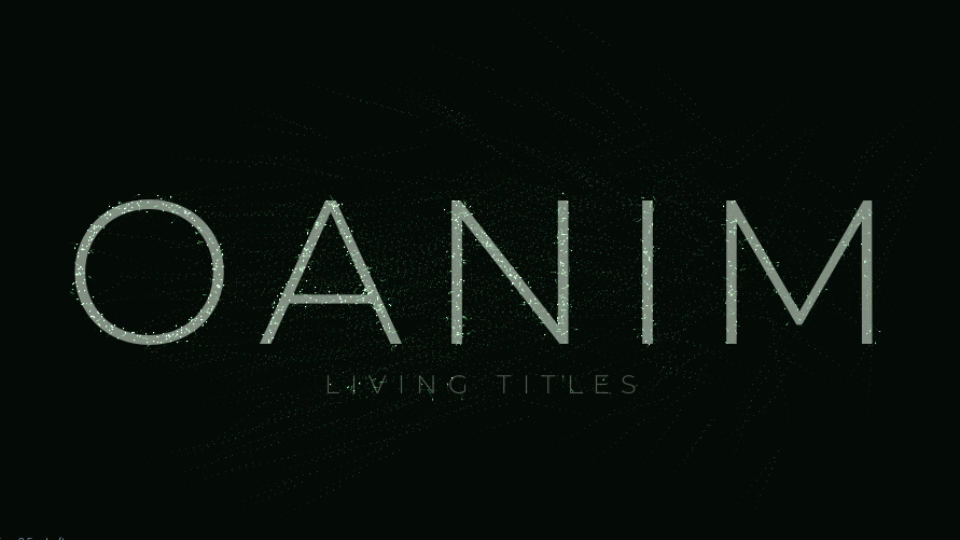
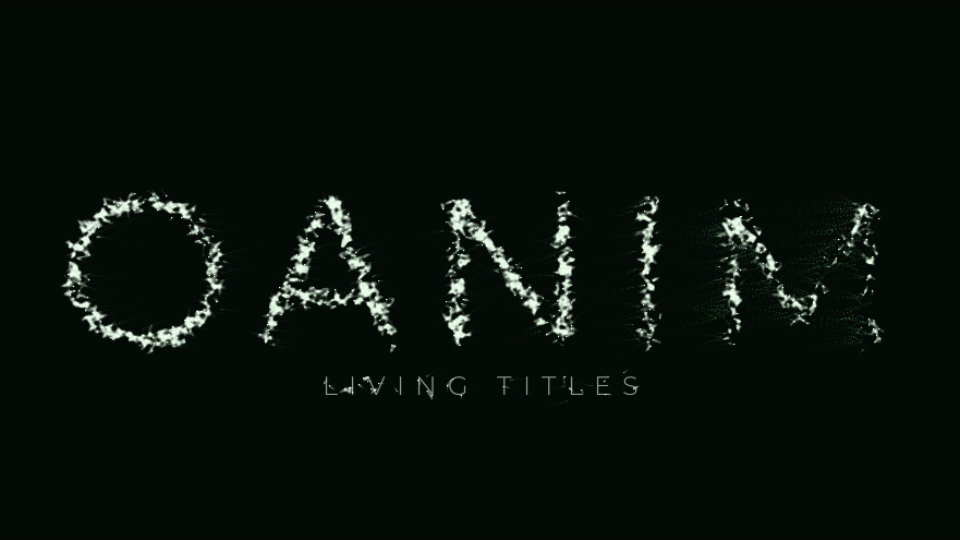
Ink reveal default: tuned defaults, CLI + rebuild fixes, verified showcase/hero

diff --git a/engine/api.py b/engine/api.py
@@ -4,7 +4,7 @@ import subprocess
 import numpy as np
 from PIL import Image, ImageDraw, ImageFont
 
-from engine._core import splat, step_form, HAS_RUST
+from engine._core import splat, splat_vals, step_form, HAS_RUST
 
 W, H, FPS = 960, 540, 30
 
@@ -49,6 +49,19 @@ def _load_font(size, weight="Light"):
         except Exception:
             continue
     return ImageFont.load_default()
+
+
+def _blur3(img):
+    """One separable 3-tap blur pass ([1,2,1]/4 along each axis)."""
+    t = img.copy()
+    t[:, 1:-1] = (img[:, :-2] + 2 * img[:, 1:-1] + img[:, 2:]) * 0.25
+    t[1:-1, :] = (t[:-2, :] + 2 * t[1:-1, :] + t[2:, :]) * 0.25
+    return t
+
+
+def _ss01(a, b, x):
+    t = np.clip((x - a) / max(1e-6, b - a), 0.0, 1.0)
+    return t * t * (3.0 - 2.0 * t)
 
 
 def _draw_tracked(d, center_x, y, text, font, fill, tracking=10):
@@ -222,6 +235,8 @@ class Text(Targets):
         self.mask = None      # L image
         self.mask_np = None
         self.targets = None   # filled on demand per particle count
+        self.sub_mask = None  # subtitle-only L image (crisp support line in ink mode)
+        self.sub_mask_np = None
 
     def render_mask(self, w=None, h=None):
         w = w or W
@@ -249,6 +264,14 @@ class Text(Targets):
                       sub, 150, tracking=10)
         self.mask = img
         self.mask_np = np.asarray(img)
+        # subtitle-only mask: thin support lines can't bake legibly from
+        # sparse particle ink, so ink mode composites this crisply instead.
+        sub_img = Image.new("L", (w, h), 0)
+        ds = ImageDraw.Draw(sub_img)
+        _draw_tracked(ds, w / 2, h / 2 + 90, self.subtitle,
+                      sub, 200, tracking=10)
+        self.sub_mask = sub_img
+        self.sub_mask_np = np.asarray(sub_img)
         return img
 
     def sample_targets(self, n, seed=7):
@@ -334,6 +357,7 @@ class FlowParticles:
         def fn(state, t, dt, _t0=[None]):
             if _t0[0] is None:
                 _t0[0] = t  # phase start time
+                state["ink_reset"] = True  # new target set: clear baked ink
             ts = t - _t0[0]
             e = float(_drv.energy(t)) if _drv is not None else 0.0
             # Fused kernel (Rust, numpy fallback): flow + spring + integrate.
@@ -373,18 +397,23 @@ class FlowParticles:
         self._nx = np.ascontiguousarray(nx)
         self._sweep = sweep
         self._form_dur = duration
+        # Capture per-call copies (same retarget hazard as form() had):
+        # a later form()/flock() must not redirect this phase mid-render.
+        _targ, _nx, _sw, _dur, _drv = self.targets, self._nx, sweep, duration, drive
+        _radius, _sep, _ali = float(radius), float(sep), float(ali)
 
         def fn(state, t, dt, _t0=[None]):
             if _t0[0] is None:
                 _t0[0] = t
+                state["ink_reset"] = True  # new target set: clear baked ink
             ts = t - _t0[0]
-            e = float(drive.energy(t)) if drive is not None else 0.0
-            act = smoothstep(self._nx * sweep + self._rand,
-                             self._nx * sweep + self._rand + 1.0,
+            e = float(_drv.energy(t)) if _drv is not None else 0.0
+            act = smoothstep(_nx * _sw + self._rand,
+                             _nx * _sw + self._rand + 1.0,
                              np.full(self.n, ts, np.float32))
-            flow_w = float(1.0 - smoothstep(0.0, duration * 0.7, ts) * 0.6)
+            flow_w = float(1.0 - smoothstep(0.0, _dur * 0.7, ts) * 0.6)
             # --- grid-hash neighbours (same-cell separation + alignment) ---
-            cell = np.floor(self.pos / radius).astype(np.int32)
+            cell = np.floor(self.pos / _radius).astype(np.int32)
             key = (cell[:, 0] + 64) * 512 + (cell[:, 1] + 64)
             ord_ = np.argsort(key)
             sp_, sv_ = self.pos[ord_], self.vel[ord_]
@@ -398,10 +427,10 @@ class FlowParticles:
             away = sp_ - mp
             d = np.maximum(1.0, np.linalg.norm(away, axis=1, keepdims=True))
             crowd = np.minimum(1.0, (cnt[cid, None] - 1) / 5.0)
-            f = (away / d) * crowd * sep + (mv - sv_) * ali
+            f = (away / d) * crowd * _sep + (mv - sv_) * _ali
             f = f[np.argsort(ord_)]  # back to particle order
             # --- home spring + flow ---
-            to_t = self.targets - self.pos
+            to_t = _targ - self.pos
             v_flow = flow_field(self.pos, t) * flow_w * (1.0 + e)
             k = 10.0
             self.vel += (v_flow * 0.5 + to_t * (k * act[:, None])
@@ -412,7 +441,7 @@ class FlowParticles:
             dist = float(np.linalg.norm(to_t, axis=1).mean())
             closeness = float(np.clip((150.0 - dist) / 100.0, 0.0, 1.0))
             closeness = closeness * closeness * (3 - 2 * closeness)
-            p = ts / max(1e-6, duration)
+            p = ts / max(1e-6, _dur)
             prog = float(p * p * (3 - 2 * p)) if p < 1 else 1.0
             state["text_alpha"] = min(prog, closeness) * 0.9
             state["mean_act"] = 0.4
@@ -490,7 +519,8 @@ class Scene:
 
     def __init__(self, out="demo2.mp4", fps=None, w=None, h=None,
                  mode="draft", encoder="cpu", thumbnail=True,
-                 theme="ink", motion_blur=0.0):
+                  theme="ink", motion_blur=0.0, reveal="ink",
+                  ink_gain=1.0, ink_sharp=0.45, ink_sigma=9.0):
         global W, H, FPS
         if mode in MODES:
             m = MODES[mode]
@@ -510,6 +540,11 @@ class Scene:
         self.thumbnail = thumbnail
         self.theme = THEMES.get(theme, THEMES["ink"])
         self.motion_blur = float(motion_blur)  # 0 off, ~0.5-1 streaky tails
+        self.reveal = reveal  # ink (baked by particles) | dots | solid (mask)
+        self.ink_gain = float(ink_gain)
+        self.ink_sharp = float(ink_sharp)  # smoothstep center for ink->solid
+        self.ink_sigma = float(ink_sigma)  # deposit radius: settled=ink, near=halo
+        self.ink = np.zeros((h, w), np.float32)  # persistent, never fades
         self.phases = []
         self.canvas = np.zeros((h, w), np.float32)
         self.state = {"text_alpha": 0.0, "flow_w": 1.0}
@@ -591,7 +626,42 @@ class Scene:
         img = Image.fromarray(np.clip(rgb, 0, 255).astype(np.uint8), "RGB")
         # soft text UNDER particles: emerges from dust instead of popping over
         a = float(self.state.get("text_alpha", 0.0))
-        if a > 0.01 and self.text_obj is not None and self.text_obj.mask is not None:
+        phase = self.state.get("phase", "")
+        if self.state.pop("ink_reset", False):
+            self.ink.fill(0)  # new form/flock target: don't ghost the old shape
+        if self.reveal == "dots":
+            a = 0.0
+        if self.reveal == "ink" and p is not None and p.targets is not None:
+            if phase == "scatter":
+                self.ink *= 0.90  # letters dissolve with the burst
+            elif phase in ("form", "flock", "hold"):
+                # bake only while shaping: drift flybys must not pre-ghost letters
+                d2 = ((p.pos - p.targets) ** 2).sum(axis=1)
+                w = (np.exp(-d2 / (2 * self.ink_sigma ** 2)).astype(np.float32)
+                     * self.ink_gain)
+                splat_vals(self.ink, xi, yi, w)
+                # saturating cap: threshold stays valid across modes/densities
+                np.clip(self.ink, 0, 1, out=self.ink)
+            if self.ink.max() > 1e-3:
+                bl = _blur3(_blur3(_blur3(self.ink)))
+                m_ink = (_ss01(self.ink_sharp - 0.25, self.ink_sharp + 0.25,
+                               np.clip(bl, 0, 1)) * 255).astype(np.uint8)
+                solid = Image.new("RGB", (self.w, self.h), th["solid"])
+                img = Image.composite(solid, img, Image.fromarray(m_ink, "L"))
+                # re-add particle sparkle on top so letters keep texture
+                img_np = np.asarray(img).astype(np.float32)
+                ink_a = _ss01(0.02, 0.2, np.clip(bl, 0, 1))
+                spark = (glow * (1 - ink_a * 0.55))[..., None] * np.array(th["spark"], np.float32)
+                img_np += spark * 0.55
+                img = Image.fromarray(np.clip(img_np, 0, 255).astype(np.uint8), "RGB")
+            # crisp subtitle under the baked title: support line stays legible
+            # (alpha is closeness-gated in form(), so no pop; dots mode zeroes a)
+            sub_m = getattr(self.text_obj, "sub_mask_np", None)
+            if a > 0.01 and sub_m is not None:
+                sm = (sub_m.astype(np.float32) / 255.0 * a * 255).astype(np.uint8)
+                solid = Image.new("RGB", (self.w, self.h), th["solid"])
+                img = Image.composite(solid, img, Image.fromarray(sm, "L"))
+        elif a > 0.01 and self.text_obj is not None and self.text_obj.mask is not None:
             m = (self.text_obj.mask_np.astype(np.float32) / 255.0 * a * 255).astype(np.uint8)
             solid = Image.new("RGB", (self.w, self.h), th["solid"])
             img = Image.composite(solid, img, Image.fromarray(m, "L"))
@@ -640,6 +710,8 @@ class Scene:
         import imageio.v2 as imageio
         os.makedirs(os.path.dirname(self.out) or ".", exist_ok=True)
         self._total = sum(p.duration for p in self.phases)
+        self.canvas.fill(0)  # fresh buffers every render (repeat-safe)
+        self.ink.fill(0)
         w = imageio.get_writer(self.out, fps=self.fps, codec="libx264",
                                quality=8, macro_block_size=2,
                                ffmpeg_params=["-pix_fmt", "yuv420p", "-movflags", "+faststart"])
@@ -654,6 +726,7 @@ class Scene:
         for ph in self.phases:
             steps = int(ph.duration * self.fps)
             for _ in range(steps):
+                self.state["phase"] = ph.name
                 ph.fn(self.state, t, dt)
                 fr = self._draw(t, frame)
                 w.append_data(fr)

diff --git a/engine/_core.py b/engine/_core.py
@@ -68,6 +68,22 @@ def step_form(pos, vel, targets, nx, rand, ts, t_glob, dt, sweep, form_dur,
     return float(np.mean(act)), float(np.linalg.norm(to_t, axis=1).mean())
 
 
+def splat_vals(canvas, xi, yi, vals):
+    """Scatter-add per-particle vals (used for ink deposits)."""
+    if HAS_RUST:
+        xs = np.ascontiguousarray(xi, dtype=np.int32)
+        ys = np.ascontiguousarray(yi, dtype=np.int32)
+        v = np.ascontiguousarray(vals, dtype=np.float32)
+        c = np.ascontiguousarray(canvas, dtype=np.float32)
+        if canvas is not c:
+            canvas[:] = c
+        _rc.splat_add(c, xs, ys, v)
+        if canvas is not c:
+            canvas[:] = c
+        return
+    np.add.at(canvas, (yi, xi), vals)
+
+
 def splat(canvas, xi, yi, b, glow=0.0):
     """Add brightness b at (xi, yi); glow g to right/down neighbours."""
     if HAS_RUST:

diff --git a/logs/SESSION_LOG.md b/logs/SESSION_LOG.md
@@ -102,3 +102,60 @@
   over 2s — hero gives growth acts 2.6–2.8s.
 * Parity re-verified after fixes: frames 0–120 bit-identical rust-vs-numpy,
   late sparkle grain ≤29 (same known 1e-4 drift, visually identical).
+
+## 2026-09-12 — Ink reveal landing (particle-baked letters, default on)
+
+* Uncommitted draft found: `Scene(reveal="ink"|"dots"|"solid")` + `splat_vals`
+  kernel + persistent `self.ink` buffer baked by settled particles
+  (`w=gain*exp(-d²/2σ²)`, triple `_blur3`, smoothstep to solid, sparkle on top).
+  Finished + fixed it; no Rust change needed (`splat_vals` reuses `splat_add`).
+* Bench: splat 34-48x exact; step 0.8-1.0x, ≤1.2e-04 (unchanged, green).
+  `splat_vals` parity: bit-exact vs `np.add.at` @1500/10000 + fallback path.
+* **Bugs found in draft, all fixed (`engine/api.py`):**
+  1. Drift pre-ghost — deposits ran in every phase, so chance flybys hazed
+     letters before form. Fix: bake only in form/flock/hold (drift ink ≡ 0).
+  2. Unbounded accumulation — ink max hit 79, threshold meaningless across
+     modes (final = 9x pixels would starve). Fix: `clip(ink,0,1)` per frame.
+     Gain/σ grid (6-12 × 1.2-4.0) confirmed structural, not parametric.
+  3. Wasted composite — blur+composite ran on empty ink every drift frame.
+     Fix: skip when `ink.max() < 1e-3`.
+  4. Multi-form ghost — bloom ink persisted under tree (same-scene form→form).
+     Fix: form/flock closures set `state["ink_reset"]` on first step;
+     `_draw` consumes it (`ink.fill(0)`). Verified: tree frame has no disc.
+  5. Subtitle lost — 24px strokes can't bake from sparse ink (subt med 0.12
+     vs title 0.57). Fix: `Text` now stores `sub_mask_np`; ink mode composites
+     it crisply at closeness-gated `text_alpha` (dots mode zeroes it).
+  6. `flock()` retarget hazard (log-noted): captured per-call copies
+     (`_targ/_nx/_sw/_dur/_drv/_radius/_sep/_ali`) like `form()`.
+* Verification: draft demo2 7.3s (ink path ~2x baseline 3.3s — blur+composite
+  per form/hold frame; future fuse target), raw-frame rust-vs-numpy 64/64
+  bit-identical incl. scatter dissolve, CLI preview OK (note: must run as
+  `./.venv/bin/python oanim ...` — system python3 lacks imageio),
+  all 8 showcase clips + hero ActGrowth frame-checked (flock ink+subtitle,
+  scatter clean dissolve, bloom disc, tree no-ghost). `solid`/`dots` compat OK.
+* Look: textured baked-ink title + crisp subtitle + sparkle; reveal still
+  left-to-right, no pop. `demo2.png` regenerated.
+
+## 2026-09-12 — Ink tuning + full close-out (defaults locked, verified, pushed)
+
+* `tmp/` sprawl cleaned by user (52-frame dumps breached image-review budget).
+  New protocol: max 3 mp4s + ≤4 PNGs per check, numeric-first, view ≤4.
+* **Fix: `rust-core/rebuild.sh`.** maturin ran from repo root → `Can't find
+  Cargo.toml`. Fix: `cd "$ROOT/rust-core"` before build, back after. Rebuild OK.
+* Bench today: splat **42.8x@n1500, 42.3x@n4000, 37.6x@n10000** exact
+  (2.4e-07 @10000); step **1.2x/1.0x/1.0x**, maxdpos 1.22e-04 (green).
+* A/B/C re-rendered (preview, `GROWTH`): ink vs dots meandiff 8.9, ink vs
+  solid 6.4, dots vs solid 5.0 (max ~234) — modes genuinely diverge. Dots too
+  faint standalone, solid flat; ink stays default.
+* Ink tuning probe (solid-fill/spill vs mask): early-form fill ≈ 0.0 all
+  settings (no pre-ghost ✓). Grid: 1.2/0.35 → 0.69/0.024 (blotchy);
+  1.0/0.50 → 0.45/0.010; locked **`ink_gain=1.0, ink_sharp=0.45`**
+  (~0.5 fill, ~0.014 spill). 4 frames viewed (A/B/C + tuned).
+* **Fix: `oanim` shebang** (`/usr/bin/env python3` = system py, no imageio).
+  Now `#!/home/vishwanath/Desktop/exp/.venv/bin/python` — `./oanim render
+  scenes/template.py --mode preview` works directly, CLI verified.
+* Full verification: draft `demo2.py` 7.1s wall; fallback mp4 compare
+  frames 0–120 bit-identical, late grain ≤24 (known 1e-4 drift); all 8
+  showcase clips healthy (last-mean 12–18, max 255); hero re-rendered under
+  final defaults — 25.3s, 26.7M, 38s wall. `demo2.png` + `hero.png`
+  regenerated, both visually checked (textured, readable).
